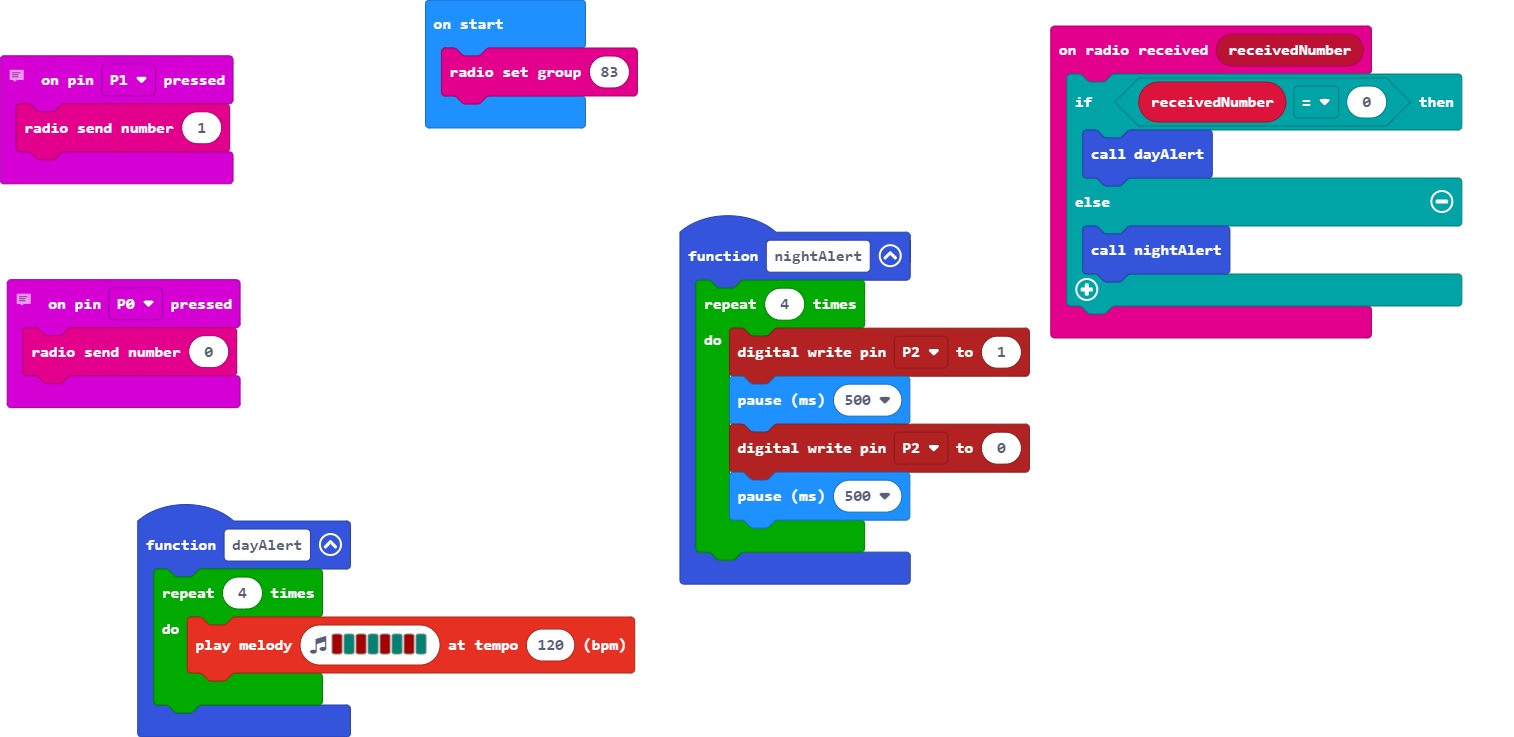
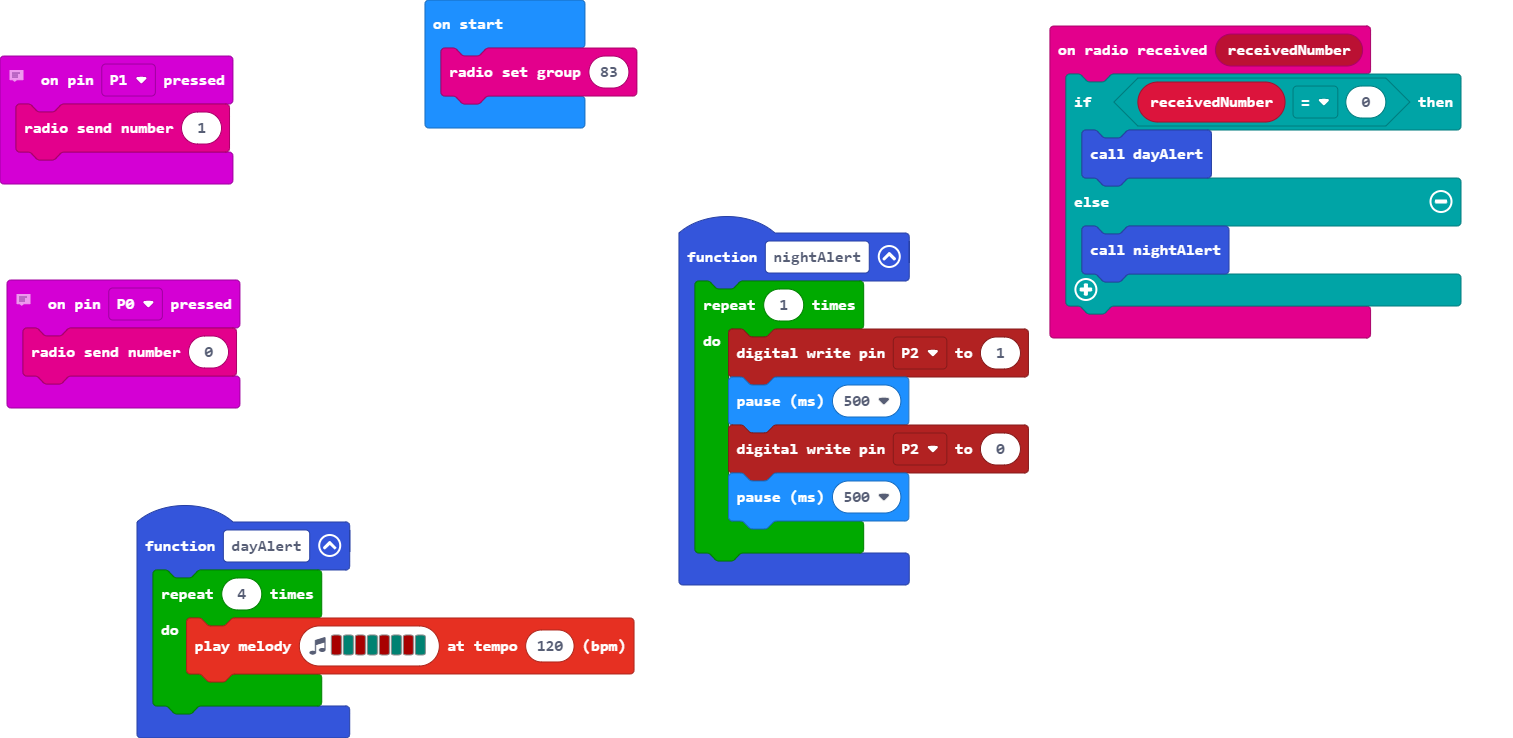
Update main.blocks, main.ts

diff --git a/main.ts b/main.ts
@@ -10,7 +10,7 @@ radio.onReceivedNumber(function (receivedNumber) {
     }
 })
 function nightAlert () {
-    for (let index = 0; index < 4; index++) {
+    for (let index = 0; index < 1; index++) {
         pins.digitalWritePin(DigitalPin.P2, 1)
         basic.pause(500)
         pins.digitalWritePin(DigitalPin.P2, 0)
